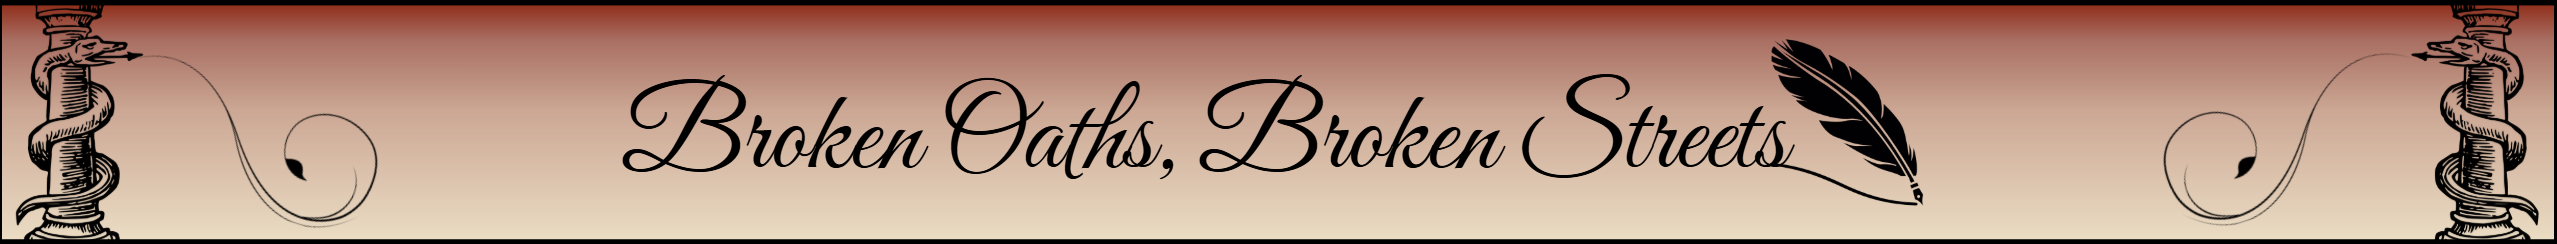
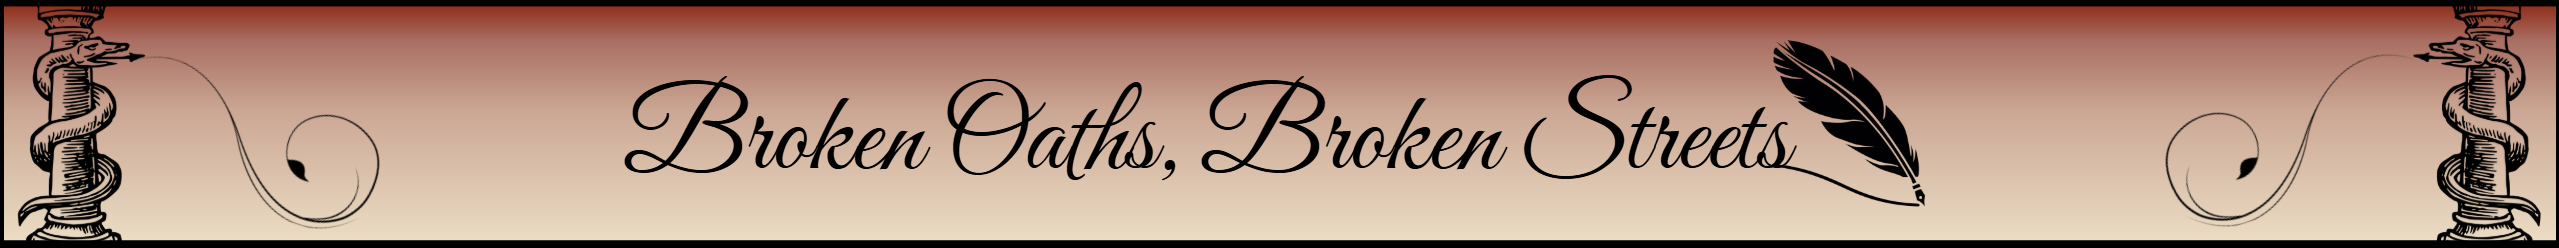
Adenine card

diff --git a/index.html b/index.html
@@ -28,7 +28,7 @@
 
     <!-- Player Characters -->
     <div class="SectionHeading">
-        <img src="Images/PlayerCharactersHeading.png" alt="Player Characters Heading" width="100%">
+        <img src="Images/PlayerCharHeading.png" alt="Player Characters Heading" width="100%">
     </div><br>
 
     <div class="container-fluid">
@@ -40,7 +40,7 @@
                 <img src="Images/UwaisCard.png" alt="Uwais" width="90%">
             </div>
             <div class="col-sm-12 col-md-12 col-lg-4">
-                <p>Character 3</p>
+                <img src="Images/AdenineCard.png" alt="Adenine" width="90%">
             </div>
         </div>
         <div class="row text-center pb-2">